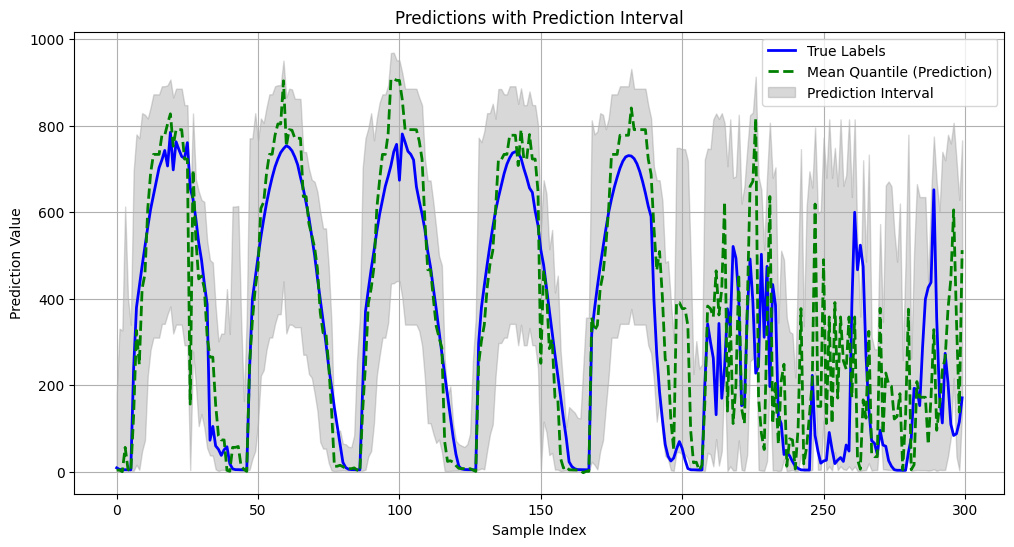
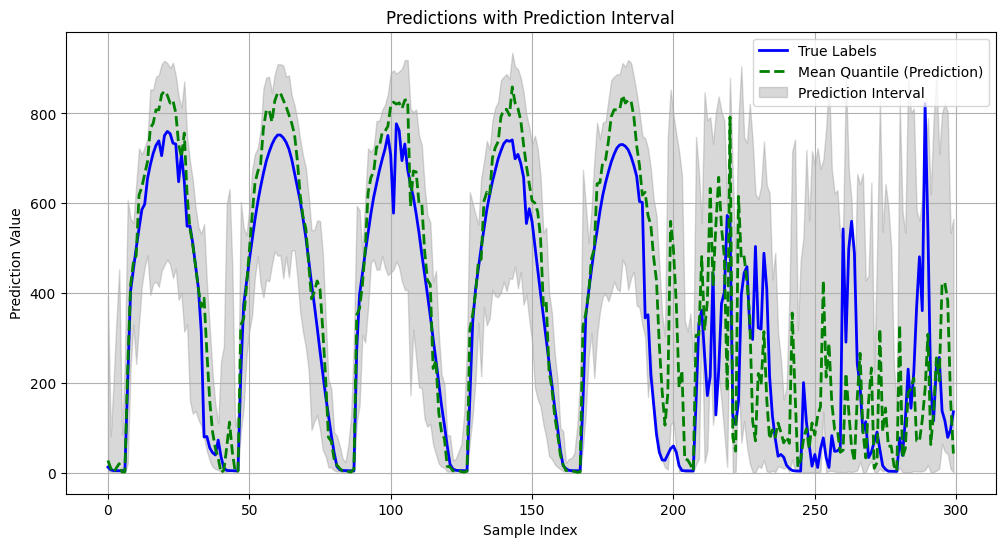
minor changes

diff --git a/scitas.py b/scitas.py
@@ -40,13 +40,13 @@ def main(rank, world_size, epochs, save_every, data_dir, working_dir, batch_size
     prefix = "normalized_" if normalized else ""
 
     # Chosen meteo features:
-    # AirTemp (0), CloudOpacity (1), PrecipitableWater (9), RelativeHumidity (10), Zenith (15)
+    # AirTemp (0), CloudOpacity (2), PrecipitableWater (9), RelativeHumidity (10), Zenith (15)
     # Based on the assumed order from the original full list:
     # ["AirTemp"(0), "Azimuth"(1), "CloudOpacity"(2), "DewpointTemp"(3), "Dhi"(4), 
     #  "Dni"(5), "Ebh"(6), "GtiFixedTilt"(7), "GtiTracking"(8), "PrecipitableWater"(9), 
     #  "RelativeHumidity"(10), "SnowWater"(11), "SurfacePressure"(12), "WindDirection10m"(13), 
     #  "WindSpeed10m"(14), "Zenith"(15), "AlbedoDaily"(16)]
-    meteo_feature_indices = [0, 1, 9, 10, 15]
+    meteo_feature_indices = [0, 2, 9, 10, 15]
 
     train_dataset = WebcamDataset(
         images_path_bc=f"{data_dir}/{prefix}X_BC_train.npy",

diff --git a/trainer.py b/trainer.py
@@ -54,7 +54,7 @@ class Trainer:
         # Optimizer and scheduler setup
         self.optimizer = optim.Adam(self.model.parameters(), lr=learning_rate, weight_decay=1e-5)
         self.scheduler = optim.lr_scheduler.ReduceLROnPlateau(self.optimizer, 'min')
-        self.early_stopper = EarlyStopper(patience=20, min_decrease=0.005)
+        self.early_stopper = EarlyStopper(patience=30, min_decrease=0.003)
         if model_path:
             print(f"Loading model from {model_path}...", flush=True)
             snapshot = torch.load(model_path)
